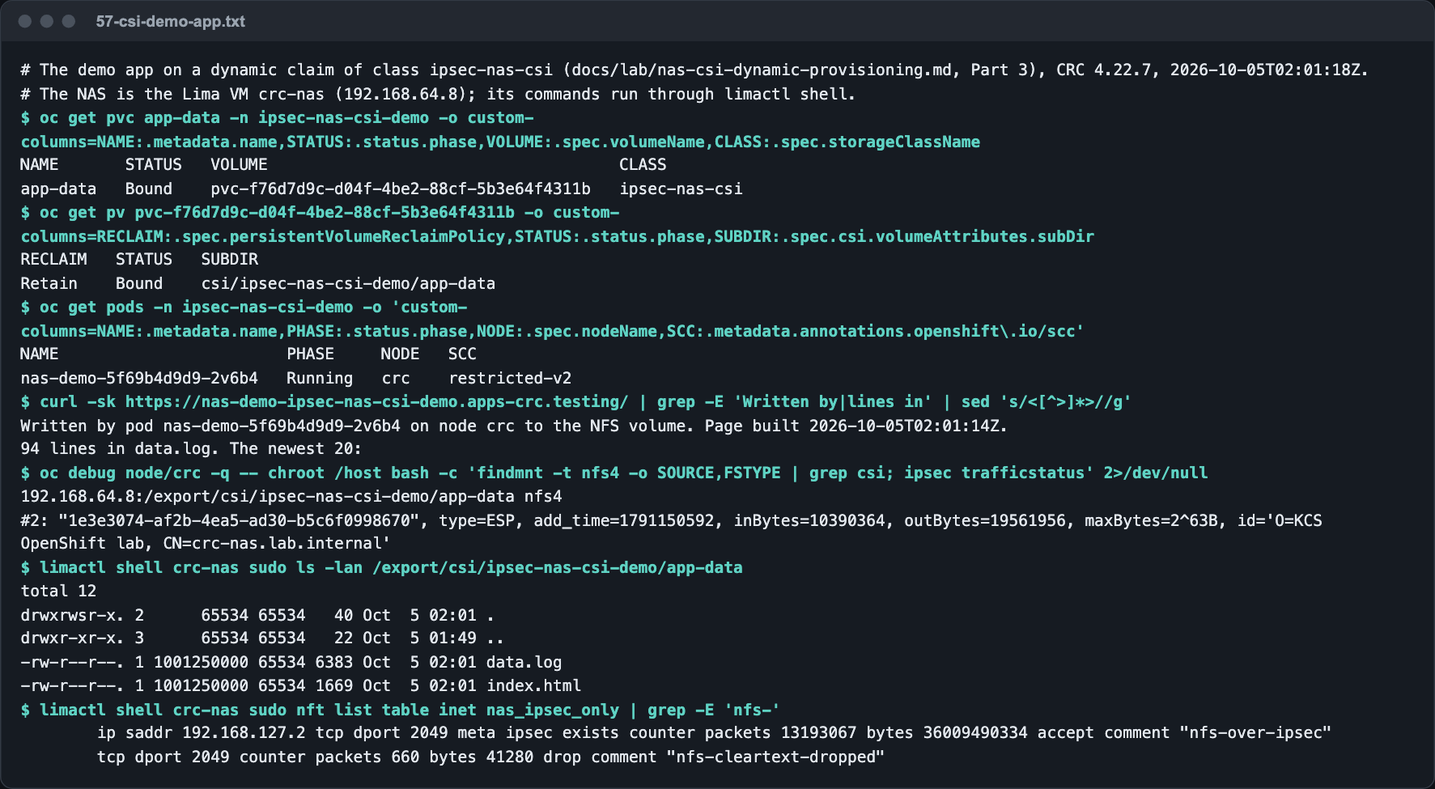
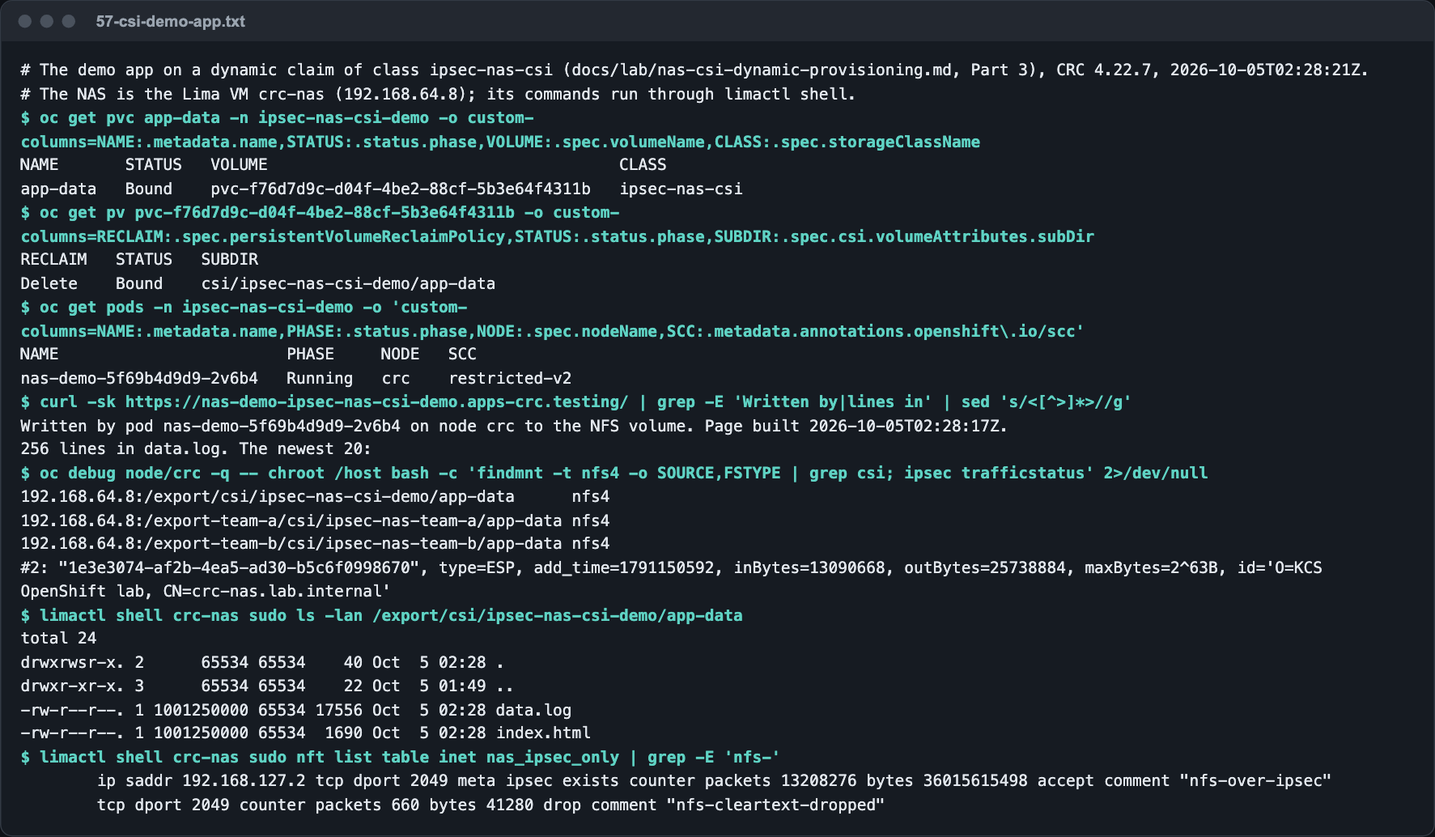
csi-driver-nfs: reclaimPolicy Delete with onDelete retain, every option documented (evidence 59)
Deleting a claim now deletes its PersistentVolume (no Released volumes
left behind) and keeps its data on the NAS:
- StorageClass ipsec-nas-csi: reclaimPolicy Delete, onDelete retain.
- values.yaml: controller.defaultOnDeletePolicy retain (chart default
  delete), so a class without onDelete, and volumes whose handle has no
  policy, keep their data too.

Measured on CRC: Delete+retain (claim, re-used name, whole namespace:
PV removed, data kept); Delete+delete (data removed with empty parents);
Delete+archive (breaks when a claim name is re-used: "rename ...: file
exists", PV stuck Released); the default applied to an old handle.

The guide gets Part 5 (more exports, step by step: NAS exports, a class
each, claims, verification, rules) and Part 6 (what deleting does: both
settings, every combination, how to change each one, finding data no
volume uses, un-sticking a Released volume). Capture 57 re-taken.

Changed region(s): [[0.0, 0.0615, 0.9616, 0.9846], [0.062, 0.0, 0.1551, 0.0308]]

diff --git a/docs/lab/nas-csi-dynamic-provisioning.md b/docs/lab/nas-csi-dynamic-provisioning.md
@@ -7,12 +7,12 @@
 | | |
 |---|---|
 | Driver | [`csi-driver-nfs`](https://github.com/kubernetes-csi/csi-driver-nfs) 4.13.4 (Kubernetes CSI project, upstream Helm chart), in the namespace `csi-driver-nfs` |
-| StorageClass | `ipsec-nas-csi`: the NAS IP, the export, one directory per claim (`csi/<namespace>/<claim>`), `Retain` |
+| StorageClass | `ipsec-nas-csi`: the NAS IP, the export, one directory per claim (`csi/<namespace>/<claim>`); deleting a claim deletes its PersistentVolume and keeps its data |
 | Demo | The demo app of nas-consumer-app.md on a dynamic claim, in the namespace `ipsec-nas-csi-demo`, with a Route |
 | Files | [`manifests/csi-driver-nfs/values.yaml`](../../manifests/csi-driver-nfs/values.yaml), [`manifests/demo-app-csi/`](../../manifests/demo-app-csi/) |
-| Measured | Every step on OpenShift Local (CRC 4.22.7) against the lab NAS (NFS accepted only through IPsec), 2026-10-05: [evidence 56](../evidence/crc/56-csi-driver-nfs-dynamic-provisioning.txt) |
+| Measured | Every step on OpenShift Local (CRC 4.22.7) against the lab NAS (NFS accepted only through IPsec), 2026-10-05: evidence [56](../evidence/crc/56-csi-driver-nfs-dynamic-provisioning.txt) (the setup), [57](../evidence/crc/57-csi-demo-app.txt) (the demo), [58](../evidence/crc/58-csi-multiple-exports.txt) (several exports), [59](../evidence/crc/59-csi-reclaim-and-ondelete.txt) (what deleting does) |
 
-**Contents:** [How it works](#how-it-works) · [Before you start](#before-you-start) · [Part 1 – Install the driver](#part-1--install-the-driver) · [Part 2 – The StorageClass](#part-2--the-storageclass) · [Part 3 – Use it: the demo app](#part-3--use-it-the-demo-app) · [Part 4 – Use it for your application](#part-4--use-it-for-your-application) · [More than one StorageClass](#more-than-one-storageclass) · [When a claim is deleted](#when-a-claim-is-deleted) · [Remove everything](#remove-everything) · [Troubleshooting](#troubleshooting) · [References](#references)
+**Contents:** [How it works](#how-it-works) · [Before you start](#before-you-start) · [Part 1 – Install the driver](#part-1--install-the-driver) · [Part 2 – The StorageClass](#part-2--the-storageclass) · [Part 3 – Use it: the demo app](#part-3--use-it-the-demo-app) · [Part 4 – Use it for your application](#part-4--use-it-for-your-application) · [Part 5 – More exports, more StorageClasses](#part-5--more-exports-more-storageclasses) · [Part 6 – What deleting a claim does, and how to change it](#part-6--what-deleting-a-claim-does-and-how-to-change-it) · [Remove everything](#remove-everything) · [Troubleshooting](#troubleshooting) · [References](#references)
 
 ---
 
@@ -104,7 +104,12 @@ helm install csi-driver-nfs csi-driver-nfs/csi-driver-nfs --namespace csi-driver
   -f manifests/csi-driver-nfs/values.yaml --wait
 ```
 
-[`values.yaml`](../../manifests/csi-driver-nfs/values.yaml) changes one thing from the chart's defaults: the controller runs on **worker** nodes only (`nodeSelector: node-role.kubernetes.io/worker: ""`). The chart's default controller tolerates the control-plane taints, and `controller.runOnControlPlane: false` does not keep it off them; the setup builds tunnels on workers, so a controller on a control-plane node could not reach the NAS.
+[`values.yaml`](../../manifests/csi-driver-nfs/values.yaml) changes two things from the chart's defaults:
+
+| Value | Chart default | Here | Why |
+|---|---|---|---|
+| `controller.nodeSelector` | none (`kubernetes.io/os: linux` only) | `node-role.kubernetes.io/worker: ""` | The controller mounts the NAS from its node, and the setup builds tunnels on workers. The chart's controller tolerates the control-plane taints, and `controller.runOnControlPlane: false` does not keep it off them. |
+| `controller.defaultOnDeletePolicy` | `delete` | `retain` | When a volume is deleted, the driver keeps its data on the NAS unless its StorageClass says otherwise ([Part 6](#part-6--what-deleting-a-claim-does-and-how-to-change-it)). A safety net: a class that forgets `onDelete` cannot delete data. |
 
 ### Step 1.4 – Verify
 
@@ -115,6 +120,12 @@ oc get csidriver nfs.csi.k8s.io
 ```
 
 ✅ **Expected** (measured): `csi-nfs-controller-…` `5/5 Running` on a worker, one `csi-nfs-node-…` `3/3 Running` per node, both `scc=privileged`, and the CSIDriver `nfs.csi.k8s.io`.
+
+```bash
+oc -n csi-driver-nfs get deploy csi-nfs-controller -o jsonpath='{.spec.template.spec.containers[?(@.name=="nfs")].args}' | tr ',' '\n' | grep ondelete
+```
+
+✅ **Expected** (measured): `"--default-ondelete-policy=retain"`.
 
 ---
 
@@ -136,7 +147,8 @@ cat rendered/demo-app-csi/51-storageclass.yaml
 | `server: ${NAS_IP}` | The address the tunnel protects. Never the NAS's name |
 | `share: ${NAS_EXPORT}` | The export |
 | `subDir: csi/${pvc.metadata.namespace}/${pvc.metadata.name}` | One directory per claim, named after it, under a parent of its own (see below) |
-| `reclaimPolicy: Retain` | Deleting a claim never deletes data on the NAS ([details](#when-a-claim-is-deleted)) |
+| `onDelete: retain` | When the volume is deleted, its directory and data **stay** on the NAS ([Part 6](#part-6--what-deleting-a-claim-does-and-how-to-change-it)) |
+| `reclaimPolicy: Delete` | Deleting a claim deletes its PersistentVolume too, so no `Released` volumes are left behind |
 | `volumeBindingMode: Immediate` | The volume is made when the claim is created, not when a pod first uses it |
 | `mountOptions: nfsvers=4.1, hard, noatime` | The same as the static volume of nas-consumer-app.md |
 
@@ -149,7 +161,7 @@ oc apply -f rendered/demo-app-csi/51-storageclass.yaml
 oc get storageclass ipsec-nas-csi
 ```
 
-✅ **Expected:** `ipsec-nas-csi   nfs.csi.k8s.io   Retain   Immediate`. It is not the default class; claims ask for it by name.
+✅ **Expected:** `ipsec-nas-csi   nfs.csi.k8s.io   Delete   Immediate`. It is not the default class; claims ask for it by name.
 
 ---
 
@@ -166,7 +178,7 @@ oc get pv "$(oc get pvc app-data -n ipsec-nas-csi-demo -o jsonpath='{.spec.volum
   -o custom-columns=NAME:.metadata.name,RECLAIM:.spec.persistentVolumeReclaimPolicy,STATUS:.status.phase,SUBDIR:.spec.csi.volumeAttributes.subDir
 ```
 
-✅ **Expected** (measured, about 2 seconds after the apply): `app-data   Bound   pvc-<id>   1Gi   RWX   ipsec-nas-csi`, and the volume `Retain   Bound   csi/ipsec-nas-csi-demo/app-data`.
+✅ **Expected** (measured, about 2 seconds after the apply): `app-data   Bound   pvc-<id>   1Gi   RWX   ipsec-nas-csi`, and the volume `Delete   Bound   csi/ipsec-nas-csi-demo/app-data`.
 
 On the NAS (ask the storage team, or on the test NAS run it yourself), the directory is there:
 
@@ -229,10 +241,10 @@ oc debug node/${NODE} -- chroot /host bash -c 'findmnt -t nfs4 -o SOURCE,OPTIONS
 <picture>
   <source media="(prefers-color-scheme: dark)" srcset="../images/crc/57-csi-demo-app.dark.png">
   <source media="(prefers-color-scheme: light)" srcset="../images/crc/57-csi-demo-app.light.png">
-  <img alt="Terminal capture: the claim app-data Bound to pvc-f76d7d9c of class ipsec-nas-csi; the volume Retain, Bound, subDir csi/ipsec-nas-csi-demo/app-data; the pod Running on crc under restricted-v2; the page reporting 94 lines; on the node the NFS 4.1 mount of 192.168.64.8:/export/csi/ipsec-nas-csi-demo/app-data and the tunnel's ESP line with the NAS's certificate; on the NAS the claim's directory with data.log and index.html owned by the pod's user ID, the NFS-over-IPsec rule counting packets and the cleartext drop rule at 660." src="../images/crc/57-csi-demo-app.light.png">
+  <img alt="Terminal capture: the claim app-data Bound to pvc-f76d7d9c of class ipsec-nas-csi; the volume Delete, Bound, subDir csi/ipsec-nas-csi-demo/app-data; the pod Running on crc under restricted-v2; the page reporting 256 lines; on the node the NFS 4.1 mounts of 192.168.64.8:/export/csi/ipsec-nas-csi-demo/app-data and of the two team exports of Part 5, and the tunnel's ESP line with the NAS's certificate; on the NAS the claim's directory with data.log and index.html owned by the pod's user ID, the NFS-over-IPsec rule at 13,208,276 packets and the cleartext drop rule at 660." src="../images/crc/57-csi-demo-app.light.png">
 </picture>
 
-*The demo on its dynamic claim, end to end: the claim and its volume, the pod, the page, the node's mount and tunnel, and on the NAS the files and the IPsec-only rule. Text: [evidence 57](../evidence/crc/57-csi-demo-app.txt).*
+*The demo on its dynamic claim, end to end: the claim and its volume, the pod, the page, the node's mounts (this one, and the team exports of [Part 5](#part-5--more-exports-more-storageclasses)) and tunnel, and on the NAS the files and the IPsec-only rule. Text: [evidence 57](../evidence/crc/57-csi-demo-app.txt).*
 
 ---
 
@@ -267,24 +279,50 @@ and a volume in the pod that names it:
 What the team gets: a directory `csi/<namespace>/<claim name>` on the NAS, writable by its pods under `restricted-v2`, reached only through the tunnel. Things to know:
 
 - **The size is not a quota.** NFS has no per-directory limit here; ask the storage team for quotas if they matter.
-- **The name is the directory.** Deleting a claim (and its volume) and creating one with the same name in the same namespace gives a new volume on the **same** directory, with the old data still in it (`Retain`; measured).
+- **Deleting the claim keeps the data.** The PersistentVolume goes with the claim; the directory and its data stay on the NAS (also when the whole namespace is deleted; measured).
+- **The name is the directory.** A new claim with the same name in the same namespace gets a new volume on the **same** directory, with the old data in it (measured).
 - **Pods write with the pod's user ID**, through the directory's group: the anonymous group, which `root_squash` also gives the pod's group 0 ([Step 3.3](#step-33--see-the-data-on-the-nas-and-prove-it-used-the-tunnel)). If the NAS maps users differently and writes fail, see [Troubleshooting](#troubleshooting).
 
 ---
 
-## More than one StorageClass
+## Part 5 – More exports, more StorageClasses
 
-The driver is installed once; a StorageClass is only a set of parameters for it, and a claim picks one by name. So one driver serves **several classes**: one per NAS export, or per data lifetime, on the same NAS or on several.
+The driver is installed once. A StorageClass is only a set of parameters for it, and a claim picks one by name, so one driver serves **several classes**: one per NAS export, or per way of handling data.
 
 | A class per… | The parameter that differs | Example |
 |---|---|---|
-| Export | `share` | `/export-team-a`, `/export-team-b` |
-| Data lifetime | `reclaimPolicy` | `Retain` for applications, `Delete` for scratch space |
+| Export | `share` | `/export-team-a`, `/export-team-b` (below) |
+| What deleting does to the data | `onDelete` (with `reclaimPolicy`) | keep it for applications, remove it for scratch space ([Part 6](#part-6--what-deleting-a-claim-does-and-how-to-change-it)) |
 | Permissions | `mountPermissions` | `"0777"` for a NAS that maps users differently ([Troubleshooting](#troubleshooting)) |
 | NFS behaviour | `mountOptions` | `nfsvers`, `rsize`/`wsize` |
 | Directory layout | `subDir` | a parent of its own per class |
 
-A class per export, on the same NAS:
+### What a new export needs first
+
+| The export is… | Needed before its class works |
+|---|---|
+| On the same NAS IP | From the storage team: the export, shared to every worker's address, its top directory writable by the anonymous user ([Before you start](#before-you-start)). **Nothing changes on the cluster's IPsec**: the tunnel already covers that IP. |
+| On another IP of the same NAS, or on another NAS | First a tunnel to that IP: the tunnel protects only `rightsubnet: ${NAS_IP}/32`, so it needs its own NNCP and certificate setup ([docs/README.md](../README.md)). Without it, NFS to that IP leaves the node in clear text, and an IPsec-only NAS drops it. |
+
+The steps below add two exports on the same NAS, one per team, as measured on the lab ([evidence 58](../evidence/crc/58-csi-multiple-exports.txt)).
+
+### Step 5.1 – The exports (on the NAS, by the storage team)
+
+On the lab NAS, beside `/export`, in a file of their own so the lab script's file stays untouched:
+
+```bash
+sudo mkdir -p /export-team-a /export-team-b
+sudo chmod 0777 /export-team-a /export-team-b          # as lab/rhel/setup-nas.sh makes /export
+printf '%s\n' \
+  "/export-team-a 192.168.127.2(rw,sync,no_subtree_check)" \
+  "/export-team-b 192.168.127.2(rw,sync,no_subtree_check)" | sudo tee /etc/exports.d/ipsec-nas-teams.exports
+sudo exportfs -ra
+sudo exportfs -v
+```
+
+✅ **Expected** (measured): `/export-team-a` and `/export-team-b` listed beside `/export`, each `192.168.127.2(…,rw,…,root_squash,…)`. The NAS's firewall rule is per port (2049, only over IPsec), so it covers the new exports without a change.
+
+### Step 5.2 – A StorageClass per export
 
 ```yaml
 apiVersion: storage.k8s.io/v1
@@ -293,10 +331,11 @@ metadata:
   name: ipsec-nas-team-a
 provisioner: nfs.csi.k8s.io
 parameters:
-  server: ${NAS_IP}                 # the same NAS IP: the same IPsec tunnel
+  server: ${NAS_IP}                 # the same NAS IP: the same IPsec tunnel. Never the NAS's name
   share: /export-team-a             # this class's export
   subDir: csi/${pvc.metadata.namespace}/${pvc.metadata.name}
-reclaimPolicy: Retain
+  onDelete: retain                  # deleting a volume keeps its data (Part 6)
+reclaimPolicy: Delete               # deleting a claim deletes its PersistentVolume
 volumeBindingMode: Immediate
 mountOptions:
 - nfsvers=4.1
@@ -304,44 +343,126 @@ mountOptions:
 - noatime
 ```
 
-A second class is the same file with another `name` and `share` (`ipsec-nas-team-b`, `/export-team-b`). An application team then writes `storageClassName: ipsec-nas-team-a` in its claim ([Part 4](#part-4--use-it-for-your-application)), and its claim's directory is made in that export: `/export-team-a/csi/<namespace>/<claim>`.
+`ipsec-nas-team-b` is the same with `share: /export-team-b`. Fill in `${NAS_IP}`, then `oc apply -f` each.
 
-On the NAS, each export is an ordinary NFS export of its own, shared like the first one. On the lab NAS, beside `/export`:
-
-```text
-# /etc/exports.d/ipsec-nas-teams.exports   (directories mode 0777, as lab/rhel/setup-nas.sh makes /export)
-/export-team-a 192.168.127.2(rw,sync,no_subtree_check)
-/export-team-b 192.168.127.2(rw,sync,no_subtree_check)
+```bash
+oc get storageclass -o custom-columns=NAME:.metadata.name,RECLAIM:.reclaimPolicy,SHARE:.parameters.share,ONDELETE:.parameters.onDelete | grep -E 'NAME|ipsec-nas'
 ```
 
-### What each new class needs
+✅ **Expected** (measured):
 
-| The export is… | Needed before the class works |
-|---|---|
-| On the same NAS IP | From the storage team: the export, shared to every worker's address, its top directory writable by the anonymous user ([Before you start](#before-you-start)). Nothing changes on the cluster's IPsec: the tunnel already covers that IP. |
-| On another IP of the same NAS, or on another NAS | First a tunnel to that IP: the tunnel protects only `rightsubnet: ${NAS_IP}/32`, so it needs its own NNCP and certificate setup ([docs/README.md](../README.md)). Without it, NFS to that IP leaves the node in clear text, and an IPsec-only NAS drops it. Use the IP in `server`, never a name. |
+```text
+NAME               RECLAIM   SHARE            ONDELETE
+ipsec-nas-csi      Delete    /export          retain
+ipsec-nas-team-a   Delete    /export-team-a   retain
+ipsec-nas-team-b   Delete    /export-team-b   retain
+```
 
-### Rules
+### Step 5.3 – Each team claims from its class
 
-1. **One parent directory per class on a shared export.** The driver names each directory after the claim's namespace and name, not after its class. Measured with a `Retain` class and a `Delete` class both using `csi/…` on `/export`: a `Delete` claim given the name of an earlier, deleted `Retain` claim bound to the kept directory and could read its data, and deleting it removed the directory and the data. Give each class its own parent (`csi-retain/…`, `csi-delete/…`), or its own export.
-2. **Parameters cannot be changed.** To change a class, create a new one; volumes already made keep the parameters they were made with.
+In each team's namespace, a claim as in [Part 4](#part-4--use-it-for-your-application) with `storageClassName: ipsec-nas-team-a` (or `-b`). On the lab, each team namespace got a claim `app-data` and the demo app of Part 3:
+
+```bash
+oc get pvc -A -o custom-columns=NS:.metadata.namespace,NAME:.metadata.name,STATUS:.status.phase,CLASS:.spec.storageClassName | grep -E 'NS|team'
+oc get pv "$(oc get pvc app-data -n ipsec-nas-team-a -o jsonpath='{.spec.volumeName}')" -o jsonpath='{.spec.csi.volumeHandle}{"\n"}'
+```
+
+✅ **Expected** (measured): both claims `Bound`; the volume handle names the export, `192.168.64.8#export-team-a#csi/ipsec-nas-team-a/app-data#…`.
+
+### Step 5.4 – Verify each claim landed in its own export, through the tunnel
+
+On the NAS:
+
+```text
+$ find /export-team-a /export-team-b -name app-data
+/export-team-a/csi/ipsec-nas-team-a/app-data
+/export-team-b/csi/ipsec-nas-team-b/app-data
+$ ls /export/csi
+ipsec-nas-csi-demo
+```
+
+On the node, one mount per export, all over the one NFS connection, which the tunnel carries:
+
+```bash
+oc debug node/<node> -- chroot /host bash -c "findmnt -t nfs4 -o SOURCE | grep csi; ss -tn dst ${NAS_IP}"
+```
+
+✅ **Expected** (measured): `192.168.64.8:/export/csi/ipsec-nas-csi-demo/app-data`, `192.168.64.8:/export-team-a/csi/ipsec-nas-team-a/app-data`, `192.168.64.8:/export-team-b/csi/ipsec-nas-team-b/app-data`, and one `ESTAB … 192.168.64.8:2049`. Each team's files on the NAS belong to that namespace's user ID (1001270000 and 1001280000), and the NAS's IPsec-only rule counted the traffic (13,196,958 → 13,197,591 packets) while its cleartext drops stayed at 660.
+
+### Rules for several classes
+
+1. **One parent directory per class on a shared export.** The driver names each directory after the claim's namespace and name, not after its class. Measured with a class that keeps data and one that removes it, both using `csi/…` on `/export`: a claim of the removing class, given the name of an earlier claim of the keeping class, bound to the kept directory and could read its data, and deleting it removed the directory and the data. Give each class its own parent (`csi/…`, `csi-scratch/…`), or its own export.
+2. **A class cannot be edited.** To change one, delete it and create it again ([Part 6](#how-to-change-it)); its volumes are not touched.
 3. **Name the class in every claim.** Only one class can be the cluster's default (`storageclass.kubernetes.io/is-default-class: "true"`); on CRC it is `crc-csi-hostpath-provisioner`, so a claim without `storageClassName` does not reach the NAS.
 
-**Measured** ([evidence 58](../evidence/crc/58-csi-multiple-exports.txt)): two more exports on the lab NAS, `/export-team-a` and `/export-team-b`, with a class each (`ipsec-nas-team-a`, `ipsec-nas-team-b`) beside `ipsec-nas-csi`. A claim of each class in its own namespace landed in its own export, the demo app in each namespace wrote there (files owned by that namespace's user ID), the node mounted all three through the one NFS connection, and the NAS's IPsec-only rule counted the traffic while its cleartext drops stayed at 660. Nothing changed on the cluster's IPsec. Rule 1's overlap was run too (section 3 of the evidence). **Not measured:** a second NAS IP, or a second NAS; that needs a second tunnel, which the lab does not have.
+**Not measured:** a second NAS IP, or a second NAS. That needs a second tunnel, which the lab does not have.
 
 ---
 
-## When a claim is deleted
+## Part 6 – What deleting a claim does, and how to change it
 
-`reclaimPolicy: Retain` (measured with a throwaway claim):
+Two settings decide it, at two levels:
 
-| You do | What happens |
-|---|---|
-| `oc delete pvc <claim> -n <namespace>` | The PersistentVolume becomes `Released`. The directory and its data stay on the NAS. |
-| `oc delete pv <pv name>` | The PersistentVolume is gone. The directory and its data **still** stay on the NAS; the driver is not asked to delete anything. |
-| Delete the data | On the NAS, by the storage team: `rm -r ${NAS_EXPORT}/csi/<namespace>/<claim>` |
+| Setting | Where | Decides | Values |
+|---|---|---|---|
+| `reclaimPolicy` | StorageClass (copied onto each PersistentVolume) | What Kubernetes does with the **PersistentVolume** when its claim is deleted | `Delete`: delete it, and ask the driver to delete the volume. `Retain`: keep it, `Released`, and ask the driver nothing |
+| `onDelete` | StorageClass `parameters` (written into each volume's handle at creation); the driver's default otherwise | What the driver does with the **data on the NAS** when it is asked to delete the volume | `retain`: keep the directory. `delete`: remove it and its empty parents. `archive`: move it to `archived-<subDir>` |
 
-With `reclaimPolicy: Delete` instead (measured with a separate class), deleting the claim makes the driver remove the claim's directory **and its data**, then every parent directory left empty. Use it only where losing the data with the claim is intended.
+The driver's default for `onDelete` is a Helm value, `controller.defaultOnDeletePolicy` (chart default `delete`; **here `retain`**, [Step 1.3](#step-13--install-the-chart)).
+
+### Every combination, measured
+
+| `reclaimPolicy` | `onDelete` | After `oc delete pvc` | Data on the NAS | Use it for |
+|---|---|---|---|---|
+| **`Delete`** | **`retain`** | **PersistentVolume deleted** | **Kept** in `csi/<ns>/<claim>` | **Applications: this setup's classes** |
+| `Delete` | `delete` | PersistentVolume deleted | **Deleted**, with its empty parent directories | Scratch space you never need back, in a class with its own parent directory |
+| `Delete` | `archive` | PersistentVolume deleted, the first time | Moved to `archived-csi/<ns>/<claim>` | **Do not use.** Re-using a claim name breaks it: deleting the second volume fails with `rename …: file exists`, and the volume stays `Released` with `VolumeFailedDelete` events, retried for ever. In one run, a claim re-used 6 seconds after the archive got no directory at all |
+| `Retain` | any | PersistentVolume stays, `Released` | Kept | Where a person must decide about each volume; leaves `Released` volumes to delete by hand |
+
+Measured in [evidence 59](../evidence/crc/59-csi-reclaim-and-ondelete.txt) (and 56 for `Retain`). Also measured, with `Delete` + `retain`:
+
+- **Deleting a namespace** deletes its claims, so their volumes too; the data stays on the NAS. With `onDelete: delete` it would be removed.
+- **The same claim name again** gets a new volume on the old directory, with the old data in it.
+
+### How to change it
+
+| To change… | Do this | What it affects |
+|---|---|---|
+| A class's `reclaimPolicy` or `onDelete` | A class cannot be edited. Delete it and create it again with the new values: `oc delete storageclass ipsec-nas-csi`, edit the template, render, `oc apply -f rendered/demo-app-csi/51-storageclass.yaml` | Claims made **from then on**. Deleting a class does not touch its volumes or their data (measured) |
+| An existing volume's `reclaimPolicy` | `oc patch pv <pv> -p '{"spec":{"persistentVolumeReclaimPolicy":"Delete"}}'` (or `"Retain"`) | That volume only |
+| An existing volume's `onDelete` | Cannot be changed: it is part of the volume's handle (`…#retain`). A handle made with no policy (`…#`, from before a class or the default set one) gets the driver's **current** default when it is deleted (measured) | — |
+| The driver's default `onDelete` | `controller.defaultOnDeletePolicy` in [`values.yaml`](../../manifests/csi-driver-nfs/values.yaml), then `helm upgrade csi-driver-nfs csi-driver-nfs/csi-driver-nfs --namespace csi-driver-nfs --version 4.13.4 -f manifests/csi-driver-nfs/values.yaml --wait` | Classes without `onDelete`: written into their new volumes' handles; and volumes whose handle has no policy |
+
+Check a volume before deleting its claim:
+
+```bash
+oc get pv <pv> -o custom-columns=RECLAIM:.spec.persistentVolumeReclaimPolicy,HANDLE:.spec.csi.volumeHandle
+# RECLAIM Delete and a handle ending in #retain (or in # with the driver's default retain): the data stays
+```
+
+What this lab did, as an example: the classes were first `Retain` with no `onDelete`; the driver's default was set to `retain` (Helm revision 3), each class was deleted and created again with `Delete` and `onDelete: retain`, and the volumes made before were patched to `Delete` (their handles have no policy, so the default `retain` applies).
+
+### Clean up data the NAS keeps
+
+With `onDelete: retain`, nothing on the cluster refers to a deleted claim's directory any more. To list the directories that no volume uses (on a host with `oc` and access to the NAS):
+
+```bash
+oc get pv -o jsonpath='{range .items[?(@.spec.csi.driver=="nfs.csi.k8s.io")]}{.spec.csi.volumeAttributes.share}/{.spec.csi.volumeAttributes.subDir}{"\n"}{end}' | sort > in-use.txt
+# on the NAS: find /export/csi /export-team-a/csi /export-team-b/csi -mindepth 2 -maxdepth 2 -type d | sort > on-nas.txt
+comm -13 in-use.txt on-nas.txt        # directories on the NAS that no volume uses
+```
+
+The storage team archives or removes those (`rm -r <dir>`), then any parent left empty.
+
+### A volume stuck `Released` with `VolumeFailedDelete`
+
+The driver could not delete it (for example an `archive` class with a re-used name). Stop the retries without touching the NAS, then remove the volume:
+
+```bash
+oc describe pv <pv> | sed -n '/Events/,$p'
+oc patch pv <pv> -p '{"spec":{"persistentVolumeReclaimPolicy":"Retain"}}'
+oc delete pv <pv>
+```
 
 ---
 
@@ -350,19 +471,19 @@ With `reclaimPolicy: Delete` instead (measured with a separate class), deleting 
 ```bash
 # the demo
 oc delete -f rendered/demo-app-csi/54-route.yaml -f rendered/demo-app-csi/53-app.yaml -f rendered/demo-app-csi/52-pvc.yaml
-oc get pv -o custom-columns=NAME:.metadata.name,CLASS:.spec.storageClassName,STATUS:.status.phase | grep ipsec-nas-csi
-oc delete pv <each Released volume of class ipsec-nas-csi>
 oc delete -f rendered/demo-app-csi/50-namespace.yaml
+oc get pv -o custom-columns=NAME:.metadata.name,CLASS:.spec.storageClassName,STATUS:.status.phase | grep ipsec-nas   # none left (reclaimPolicy Delete)
 
-# the StorageClass, then the driver (only when no volume of class ipsec-nas-csi is left)
+# the StorageClasses (and Part 5's), then the driver: only when no volume of the driver is left
 oc delete -f rendered/demo-app-csi/51-storageclass.yaml
+oc delete storageclass ipsec-nas-team-a ipsec-nas-team-b --ignore-not-found
 helm uninstall csi-driver-nfs --namespace csi-driver-nfs --wait
 oc adm policy remove-scc-from-user privileged -z csi-nfs-controller-sa -n csi-driver-nfs
 oc adm policy remove-scc-from-user privileged -z csi-nfs-node-sa -n csi-driver-nfs
 oc delete namespace csi-driver-nfs
 ```
 
-The data stays on the NAS under `${NAS_EXPORT}/csi/`; the storage team deletes it if it is no longer wanted.
+The data stays on the NAS (`onDelete: retain`) under `${NAS_EXPORT}/csi/` and each team export's `csi/`; the storage team deletes it if it is no longer wanted, and removes the exports of Part 5 (`/etc/exports.d/ipsec-nas-teams.exports`, then `exportfs -ra`).
 
 ---
 
@@ -374,6 +495,7 @@ The data stays on the NAS under `${NAS_EXPORT}/csi/`; the storage team deletes i
 | Claim `Pending`, the controller log shows a mount that timed out | The controller's node has no working tunnel, so the NAS drops its NFS | `oc logs -n csi-driver-nfs deploy/csi-nfs-controller -c nfs --tail=30`; `oc get pod -n csi-driver-nfs -l app=csi-nfs-controller -o wide`; on that node `ipsec trafficstatus` |
 | Pod stuck in `ContainerCreating`, `oc describe pod` shows a mount that timed out | The pod's node has no working tunnel | On that node: `oc debug node/<node> -- chroot /host ipsec trafficstatus`. No `type=ESP` line with the NAS's `id=` means the tunnel is down; go to the setup docs' troubleshooting |
 | No driver pods, or fewer than expected | The SCC grants of Step 1.2 are missing (not measured: Step 1.2 was always run first) | `oc get events -n csi-driver-nfs`; run Step 1.2, then `oc rollout restart` the controller Deployment and the node DaemonSet in `csi-driver-nfs` |
+| Volume `Released`, events `VolumeFailedDelete` repeating | The driver cannot delete or archive the directory (measured with `onDelete: archive` and a re-used claim name) | [Part 6](#a-volume-stuck-released-with-volumefaileddelete): switch the volume to `Retain`, then delete it |
 | Pod `Running` but writes fail with `Permission denied` | The NAS maps users or groups differently from the lab's `root_squash` (anonymous 65534) | Add `mountPermissions: "0777"` to the class's `parameters` (a new class: parameters cannot be changed). Measured: the claim's directory becomes `2777` and a `restricted-v2` pod writes |
 
 ---
